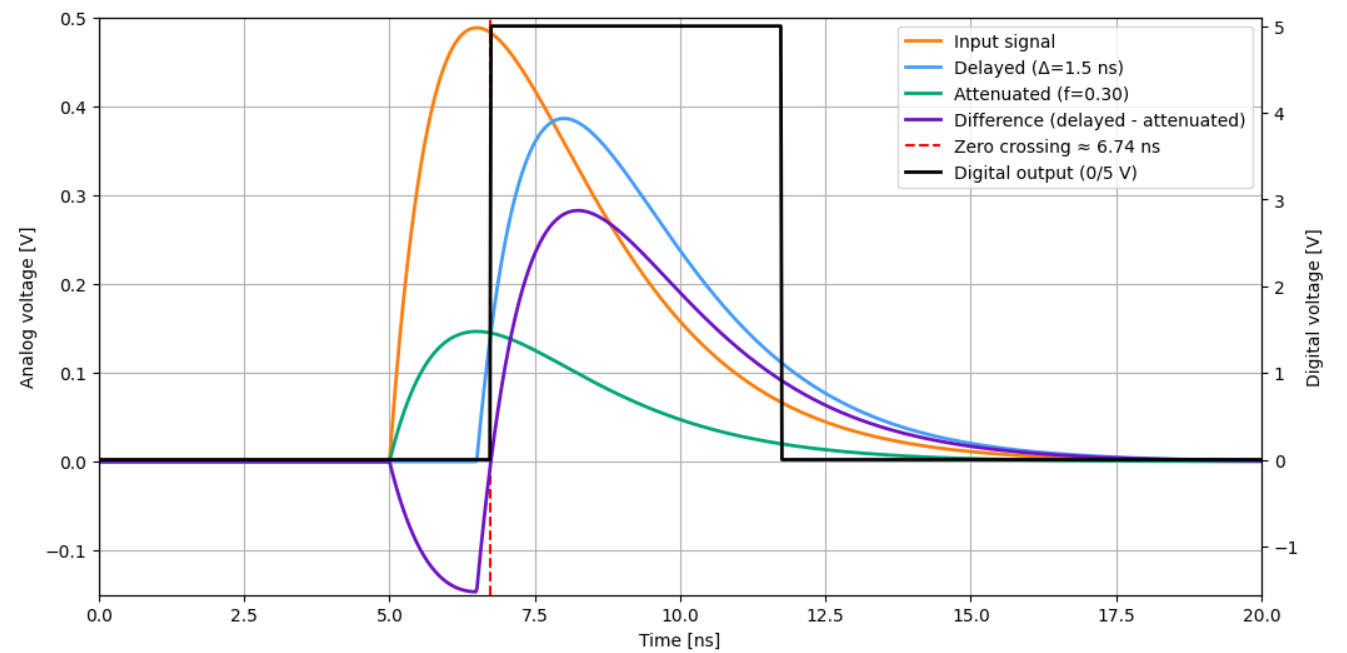
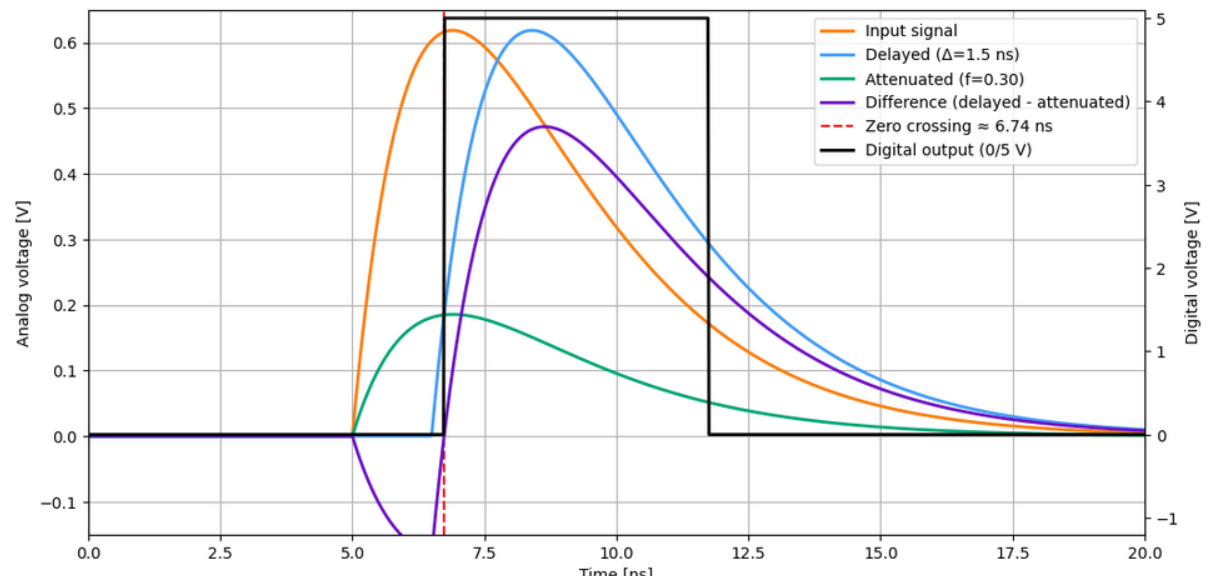
fix cfd.py

Changed region(s): [[0.0, 0.0, 0.9984, 1.0]]

diff --git a/python/cfd.py b/python/cfd.py
@@ -31,11 +31,13 @@ def find_zero_after(t, y_diff, t_min=5):
     
     return x1 - y1 * (x2 - x1) / (y2 - y1)
 
-
-y = input_signal(t, t0=5, A=0.885, tau=1.5)
+def delay_signal(signal, t, delay):
+    return np.interp(t - delay, t, signal, left=0, right=0)
+    
+y = input_signal(t, t0=5, A=0.885, tau=1.9)
 
 delay = 1.5
-y_delayed = input_signal(t - delay, t0=5, A=0.7, tau=1.5)
+y_delayed = delay_signal(y, t, delay)
 
 attenuation = 0.3
 y_attenuated = attenuation * y
@@ -61,13 +63,13 @@ plt.plot([], [], '--', color='red', label=f'Zero crossing ≈ {t_zero:.2f} ns')
 plt.plot([], [], color='black', linewidth=2, label='Digital output (0/5 V)')
 
 ax1.set_xlim(0, 20)
-ax1.set_ylim(-0.15, 0.5)
+ax1.set_ylim(-0.15, 0.65)
 
 ax1.set_xlabel("Time [ns]")
 ax1.set_ylabel("Analog voltage [V]")
 
 ax2 = ax1.twinx()
-ax2.set_ylim(-1.560, 5.1)
+ax2.set_ylim(-1.2, 5.1)
 ax2.set_ylabel("Digital voltage [V]")
 ax2.plot(t, digital_signal, color='black', label='Digital output', linewidth=2)
 
@@ -75,4 +77,5 @@ ax1.legend()
 ax1.grid()
 
 plt.show()
+
 
